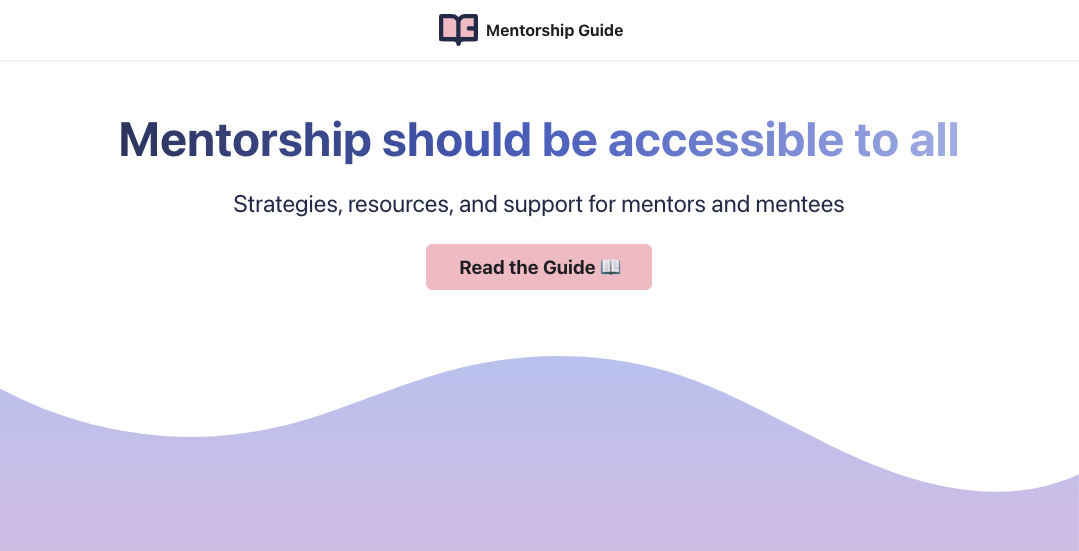
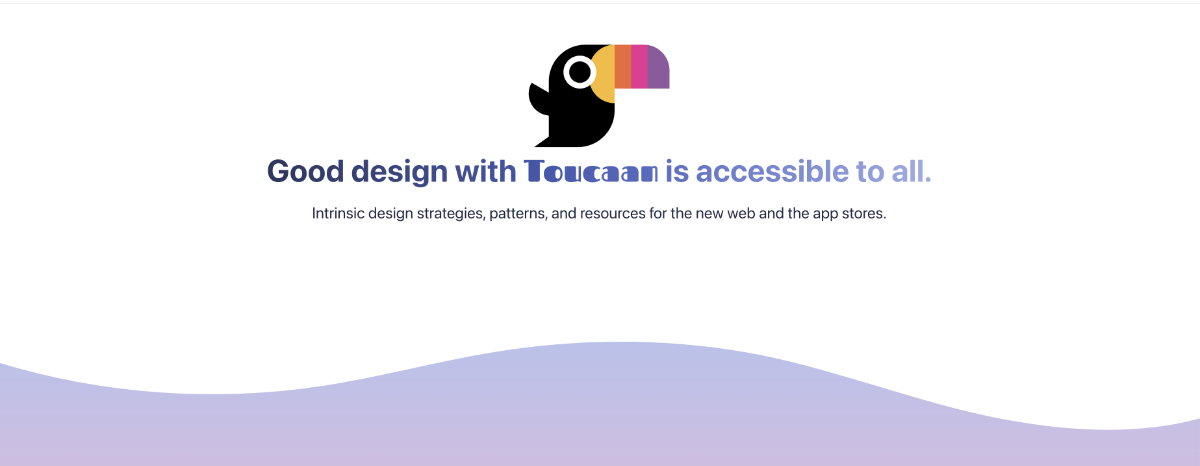
Update assets and core concepts section based on user feedback.

Changed region(s): [[0.0918, 0.0, 0.8869, 0.4206], [0.0, 0.6309, 1.0, 0.9313], [0.2447, 0.4206, 0.734, 0.5408]]

diff --git a/src/components/MaintainerTalkLogos.tsx b/src/components/MaintainerTalkLogos.tsx
@@ -10,31 +10,43 @@ type LogoItem = {
 };
 
 const LogoList: LogoItem[] = [
-  // {
-  //   imageSrc: "/img/logos/goose.png",
-  //   alt: "Red Goose",
-  //   url: "https://goose.red"
-  // },
-  // {
-  //   imageSrc: "/img/logos/bubblin.png",
-  //   alt: "Bubblin Superbooks",
-  //   url: "https://bubblin.io"
-  // },
+  {
+    imageSrc: "/img/logos/goose.png",
+    alt: "Red Goose",
+    url: "https://goose.red"
+  },
+  {
+    imageSrc: "/img/logos/bubblin.png",
+    alt: "Bubblin Superbooks",
+    url: "https://bubblin.io"
+  },
+  {
+    imageSrc: "/img/logos/CF_logo_horizontal_blktype.jpg",
+    alt: "Cloudflare",
+    url: "https://cloudflare.com/"
+  },
+  {
+    imageSrc: "/img/logos/Netlify_logo.svg",
+    alt: "Netlify",
+    url: "https://netlify.com/"
+  },
+  {
+    imageSrc: "/img/logos/GitHub_Logo.png",
+    alt: "Github",
+    url: "https://github.com/"
+  },
   {
     imageSrc: "/img/logos/marvin.jpg",
     alt: "Marvin Danig",
     url: "https://github.com/sponsors/marvindanig"
   },
-  // {
-  //   imageSrc: "/img/logos/oss-summit-europe-logo.png",
-  //   alt: "Open Source Summit Europe",
-  // },
+
 ];
 
 export default function MaintainerTalkLogos(): JSX.Element {
   return (
     <section className="container hide-on-mobile">
-      <p className={styles.title}>Developed & maintained by: </p>
+      <p className={styles.title}>Sponsors & Credits: </p>
       <div
         className={clsx(styles.logoContainer, "container", "padding-horiz-md")}
       >
@@ -48,7 +60,7 @@ export default function MaintainerTalkLogos(): JSX.Element {
                   src={useBaseUrl(imageSrc)}
                   alt={alt}
                 />
-                <label>{alt}</label>
+                {/* <label>{alt}</label> */}
                 </a>
               </div>
             );

diff --git a/src/pages/index.tsx b/src/pages/index.tsx
@@ -28,7 +28,8 @@ function HomepageHeader() {
         <a href="http://toucaan.com">
           <picture className="hero__logo"></picture>
         </a>
-        <h1 className="hero__title">Meet Intrinsic Design with <span className="fascinate">Toucaan</span>.</h1>
+        <h1 className="hero__title">Good design with <span className="fascinate">Toucaan</span> is accessible to all.</h1>
+        {/* <h1 className="hero__title">Meet Intrinsic Design with <span className="fascinate">Toucaan</span>.</h1> */}
         <p className="hero__subtitle">{siteConfig.tagline}</p>
         <p className="hero__subsubtitle">(No javascript required)</p>
         <div className={styles.buttons}>

diff --git a/docusaurus.config.js b/docusaurus.config.js
@@ -15,7 +15,7 @@ const darkCodeTheme = require("prism-react-renderer/themes/dracula")
 /** @type {import('@docusaurus/types').Config} */
 const config = {
   title: 'Toucaan CSS Framework',
-  tagline: 'A stack-agnostic vanilla styling framework for mobile apps and websites.',
+  tagline: 'Intrinsic design strategies, patterns, and resources for the new web and the app stores.',
   url: 'https://toucaan.com',
   baseUrl: '/',
   onBrokenLinks: 'throw',

diff --git a/src/components/MaintainerTalkLogos.module.css b/src/components/MaintainerTalkLogos.module.css
@@ -10,10 +10,10 @@
 }
 
 .logo {
-  height: 80px;
+  height: 6vmin;
   margin-left: 10px;
   margin-right: 10px;
-  border-radius: 50%;
+  /* border-radius: 50%; */
 }
 
 .title {

diff --git a/docs/core-concepts/space.md b/docs/core-concepts/space.md
@@ -2,7 +2,7 @@
 sidebar_position: 2
 ---
 
-# 3. The Design Space
+# 2. The Design Space
 
 Intrinsic Approach to design is very different from a responsive one. 
 
@@ -47,7 +47,14 @@ Toucaan doesn't use hardcoded MQ break-points to switch between mobile and deskt
 
 ### Is Toucaan a Design System?
 
-Toucaan is a _robust and expansive_ design system. It aims to cover more mediums on the web than before by using logical separation of viewports namely the desktop, mobile, tablet, vehicle, smartwatch, and TV/projectors etc. Toucaan has a deep focus on **accessibility and scalability**, and architected with **durability and maintainability over the years** as the main pillars of its internal design. 
+Toucaan is a simple css framework. It is _not_ a design system and this is intentional. 
 
-At this stage, Toucaan is also a recipe in motion so all kinds of feedback and contribution is welcome.
+Toucaan is aimed at makers who like to design their apps themselves––as in, keep the control over design elements without any debt from outside. One of the main reasons why Toucaan doesn't overstep into becoming a design system is to avoid the prescriptive nature of a design system. All websites using a design system end up looking the same. The idea of pre-built styled components kills the opportunity for the maker to dive in and apply their own design logic (or skill) into the application.
 
+A design system could be built on top of Toucaan, but that will probably have to live on a separate repository elsewhere.
+
+### What is the end-goal of Toucaan?
+
+Toucaan aims to cover more mediums on the web today than a responsive framework could support. By splitting the canvas of digital design into industrywide categories of the viewports (or products) like the desktop, mobile, tablet, vehicle, smartwatch, and TV/projectors, Toucaan not only makes room for deep focus on **intrinsically oriented experiences (accessibility and scalability)** but also forces the developer to arrive at an architecture that is both **durable and maintainable over the years.** 
+
+At this stage, Toucaan is a recipe in motion, so all kinds of feedback and contribution are welcome.

diff --git a/docs/core-concepts/intrinsic.md b/docs/core-concepts/intrinsic.md
@@ -1,0 +1,15 @@
+---
+sidebar_position: 1
+---
+
+# 1. What is Intrinsic Design?
+
+Intrinsic in the context of **application design** implies getting to an experience that _belongs to the device_. 
+
+
+This term was coined by the one and only [Jen Simmons](https://twitter.com/jensimmons) while working at Mozilla on flex and grid-based layouts, but a curious mind could easily hop layout structures and go in the direction of exploring what belongs and what doesn't on a given medium for a whole lot of other design vocabulary. This is how Toucaan came about to be.
+
+### How is it different from Responsive Design?
+
+One way to visualize the difference between responsive and intrinsic design is to consider the differences between native mobile apps and the mobile web. A native app would often feel more natural to use on the phone because its layout and design language usually belong to a phone, whereas mobile web design is more likely a squished version of desktop design hidden under a hamburger menu. More discussion [here](/docs/core-concepts/space#how-is-this-different-from-responsive-design).
+

diff --git a/docs/native-apps/introduction.md b/docs/native-apps/introduction.md
@@ -3,7 +3,10 @@ sidebar_position: 1
 ---
 
 # Introduction
-Toucaan makes it possible to create "app-like" layouts for mobile and desktop apps using plain old HTML and CSS. This is the central theme of [Intrinsic Design](https://toucaan.com/blog/intrinsic-design). It enables the developer to create user-interfaces that "belong to" a device, and that often leads to mobile layouts that are closer to the design language of native apps than anything else. 
+Toucaan makes it possible to create "app-like" layouts for mobile and desktop apps. Use plain HTML and CSS to create screens for your _native_ mobile app and navigate between them seamlessly using [portals](https://github.com/WICG/portals). 
+
+
+This is an experimental region of Toucaan. And in part one of the core themes of [Intrinsic Design](https://toucaan.com/blog/intrinsic-design). 
 
 ### App Workflow
 

diff --git a/docs/core-concepts/router.md b/docs/core-concepts/router.md
@@ -1,8 +1,8 @@
 ---
-sidebar_position: 3
+sidebar_position: 5
 ---
 
-# 4. The CSS Router
+# 5. The CSS Router
 
 Toucaan uses a [simple router written in plain css](router.md) to prioritize and load the correct stylesheet for a given _class of device_. Among other goals, Toucaan's css router splits one massive stylesheet into several smaller device-specific stylesheets according to the matched route, which in turn relies on the axis of orientation, other capabilities, and the intrinsic size of the viewport.
 

diff --git a/docs/core-concepts/overview.md b/docs/core-concepts/overview.md
@@ -1,8 +1,8 @@
 ---
-sidebar_position: 1
+sidebar_position: 3
 ---
 
-# 1. General Overview
+# 3. Framework Overview
 
 Toucaan is a stack-agnostic vanilla styling framework. Meaning, it's just plain CSS to boot, install, and design your applications with. Toucaan can be used with any frontend development framework of your choice without having to rely on a specific package manager (like `npm` of `node`) that may come with the web framework.
 

diff --git a/docs/core-concepts/baseline.md b/docs/core-concepts/baseline.md
@@ -2,7 +2,7 @@
 sidebar_position: 6
 ---
 
-# 5. Baseline Assets
+# 6. Baseline Assets
 
 Unlike traditional css frameworks, Toucaan does not use a `normalize.css` or reset css file to override browser defaults. Toucaan baselines on a very small set of pre-opted rules to ensure a **starting point for cross-browser consistency**. 
 

diff --git a/docs/core-concepts/architecture.md b/docs/core-concepts/architecture.md
@@ -1,8 +1,8 @@
 ---
-sidebar_position: 2
+sidebar_position: 4
 ---
 
-# 2. The Architecture
+# 4. Framework Architecture
 
 Toucaan's Design Principle: **"Everything that is used by an app, lives within the app!"**
 

diff --git a/docs/core-concepts/diy.md b/docs/core-concepts/diy.md
@@ -2,7 +2,7 @@
 sidebar_position: 8
 ---
 
-# 7. DIY Framework
+# 8. DIY Framework
 
 Let us **create a new folder** named `toucaan` somewhere in your project using the following command: 
 
